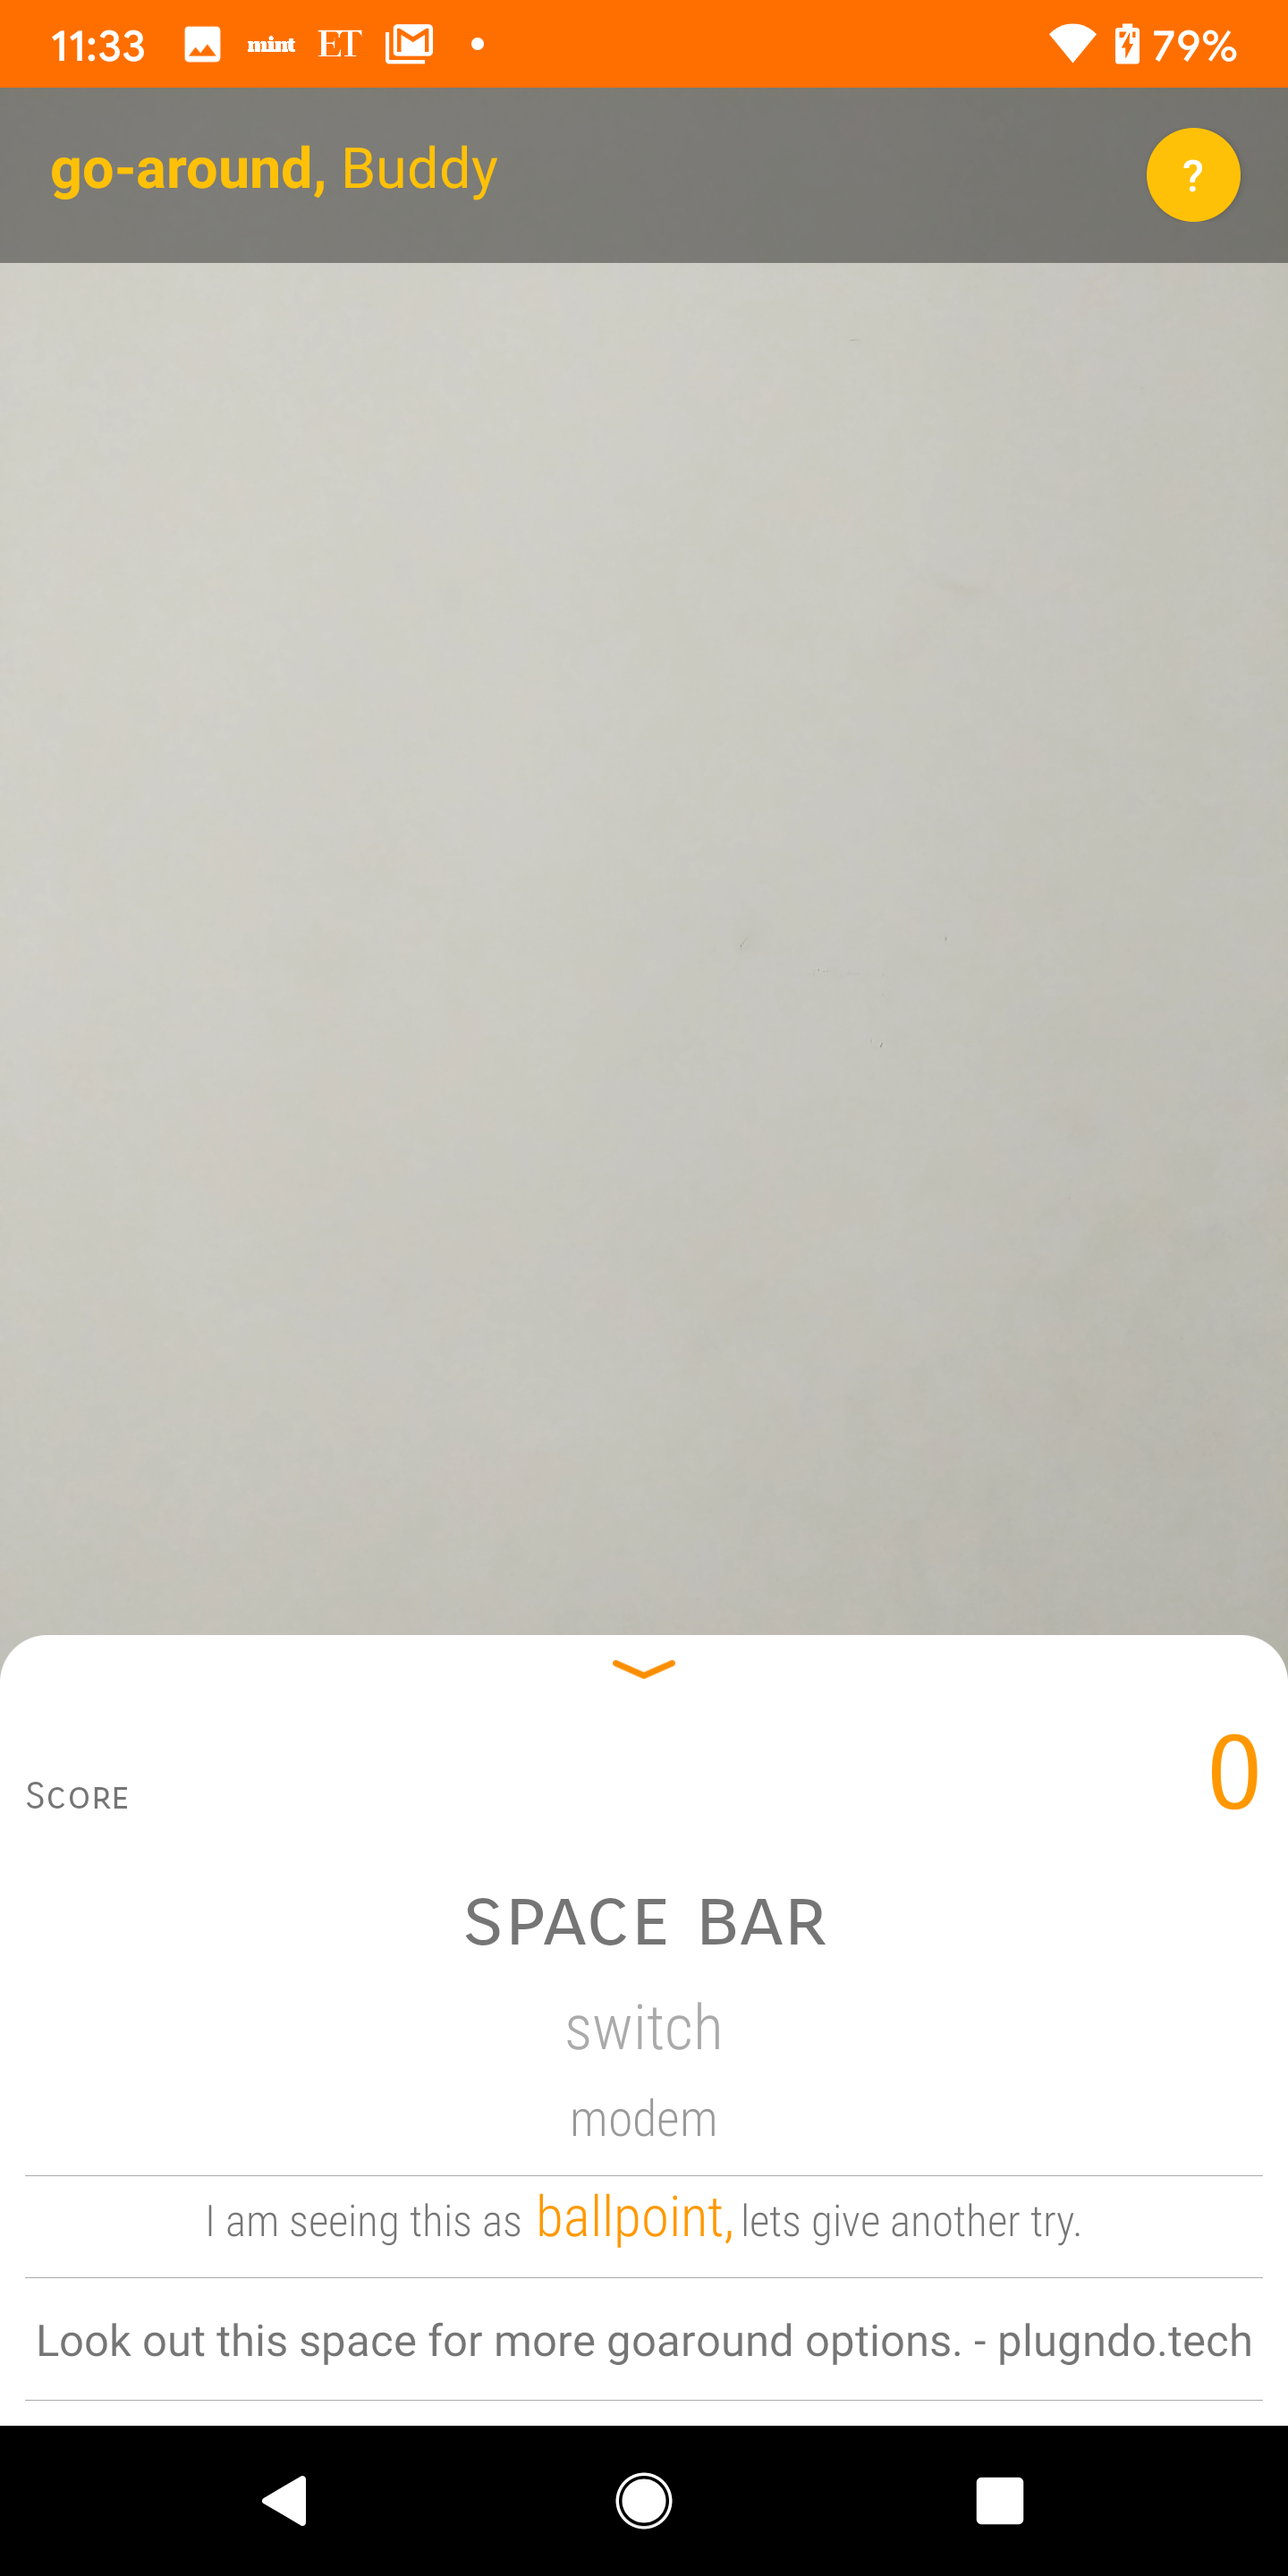
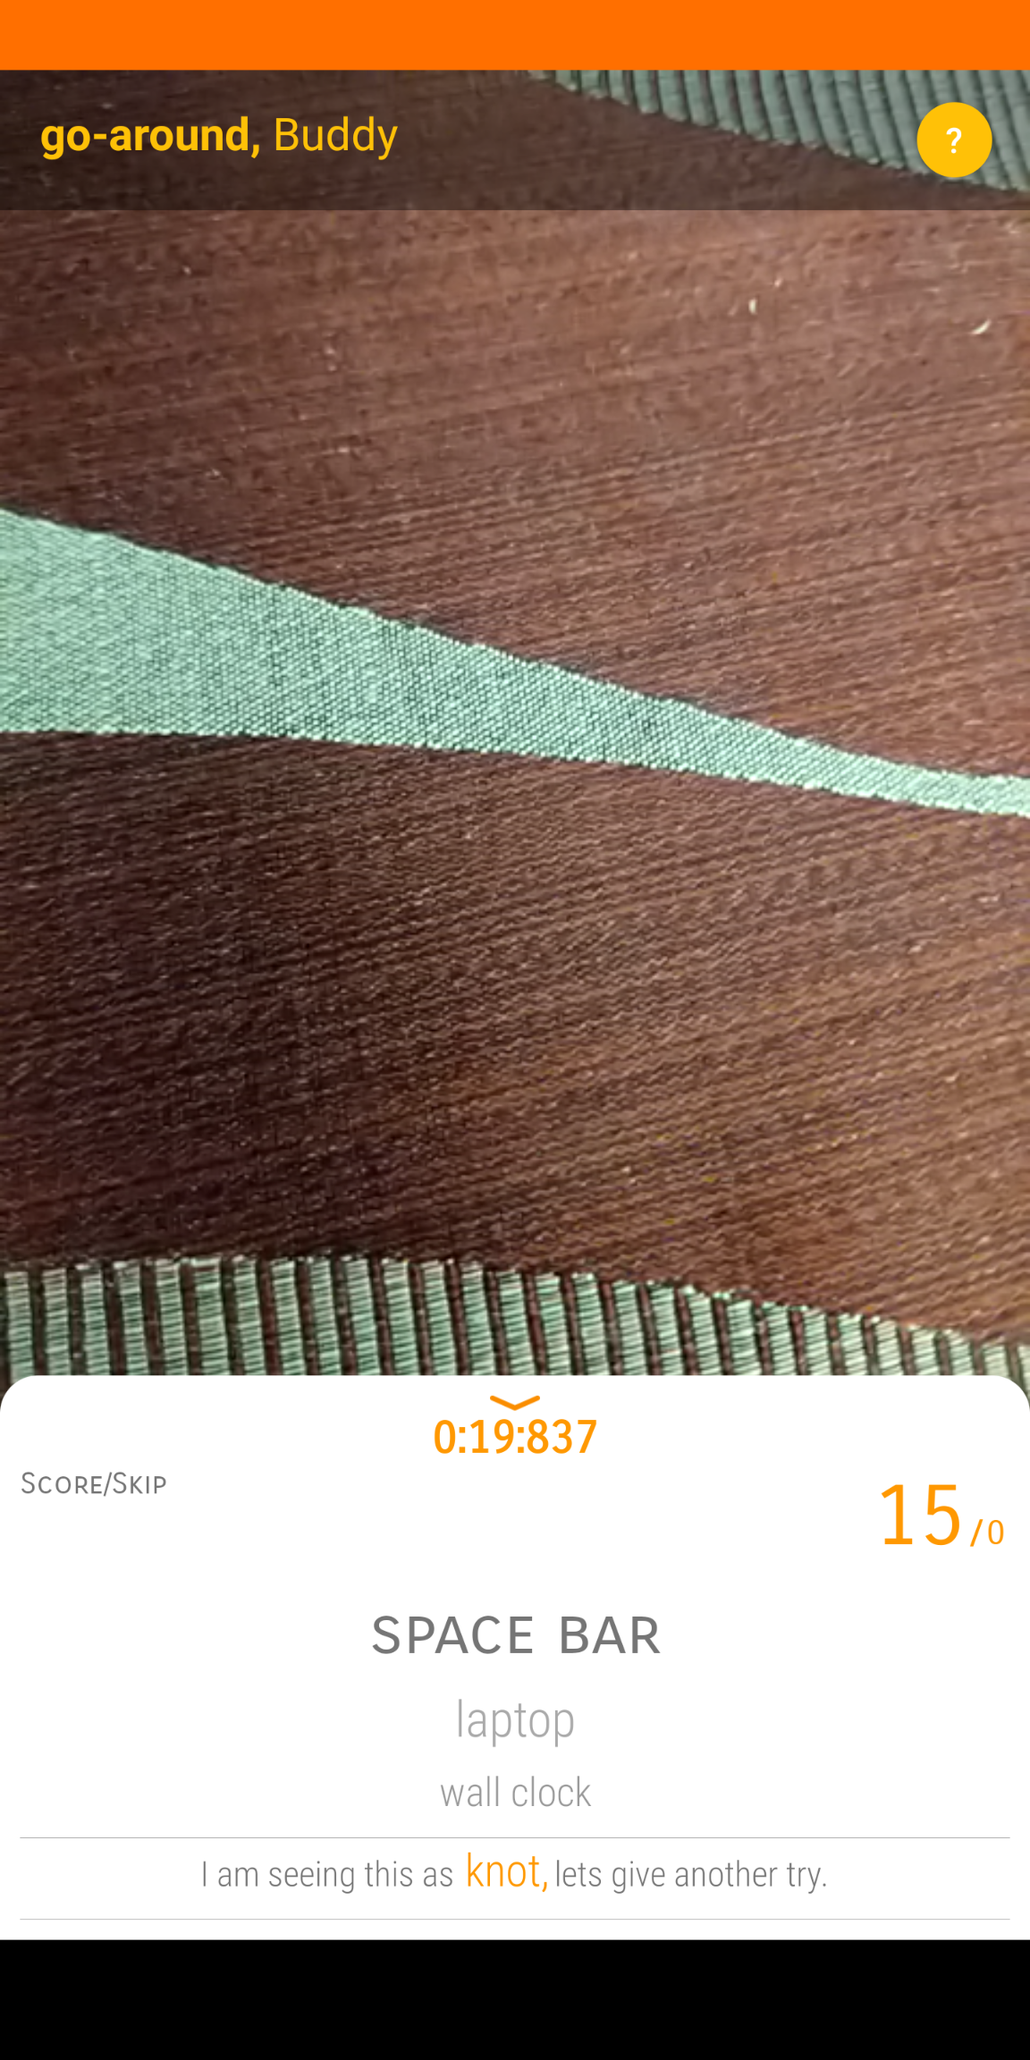
1.3(details are updated)

diff --git a/README.md b/README.md
@@ -29,11 +29,16 @@ Go around and search for the items in the list. Focus the camera and tap on top 
 </p>
 Auto bubble up to hint if you have captured something, but the game is seeing that as something else. So, adjust the camera angle and capture it again. :-)
 <p align="left">
-  <img src="https://github.com/sugumarworkspace/goaround/blob/master/Screen_2.png" width="256" title="Github Logo">
+  <img src="https://github.com/sugumarworkspace/goaround/blob/master/screen_2.png" width="256" title="Github Logo">
 </p>
 
 # On playstore
 https://play.google.com/store/apps/details?id=tech.plugndo.goaround
+
+# v1.3 [On the way to play store]
+- Go around with fast nerves, timer added.
+- Skip an item, swipe left/right option enabled.
+- Expect better experience, user interface and android api upgraded.
 
 # v1.2
 - Start from where you left, your progress stored.
